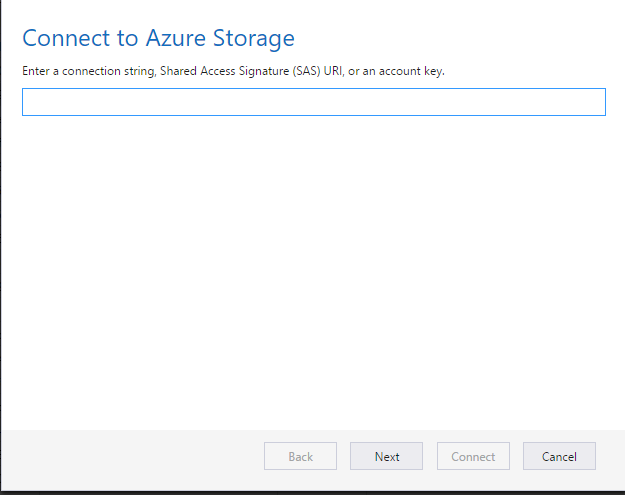
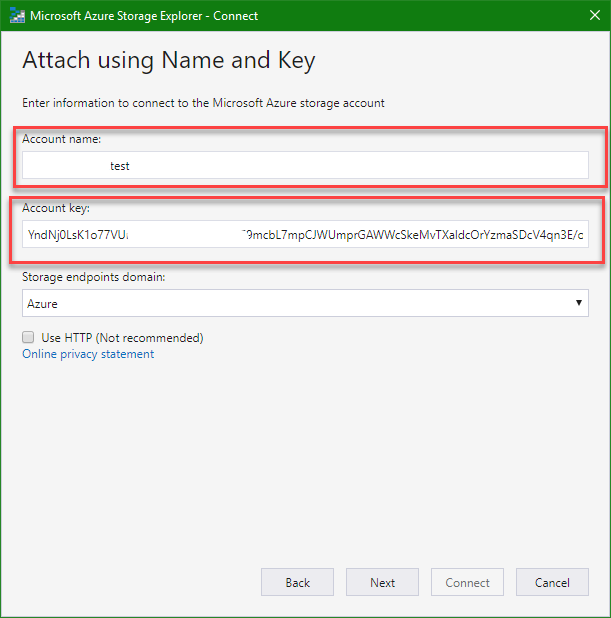
Fix feedback

Changed region(s): [[0.0, 0.0, 1.0, 1.0], [0.9329, 0.4848, 0.964, 0.5152]]

diff --git a/README.md b/README.md
@@ -28,7 +28,7 @@ Contoso O365 Doc Sync Code Sample
 
 [Install PowerPoint Add-in](#install-powerpoint-add-in)
 
-[Run Excel, Word & PowerPoint Add-ins](#run-excel-word-powerpoint-add-ins)
+[Run Excel, Word & PowerPoint Add-ins](#run-excel-word--powerpoint-add-ins)
 
 [How to view Azure SQL data?](#how-to-view-azure-sql-data)
 
@@ -156,7 +156,7 @@ Contoso O365 Doc Sync Code Sample
 
 	 ![](Images/SaveSecretKeys.png)
 
-	 - After saved successfully copy and story the `client secret`.
+	 - After saved successfully copy and store the `client secret`.
 
 	 ![](Images/ObtainSeretKeys.png)
 
@@ -224,7 +224,10 @@ Contoso O365 Doc Sync Code Sample
 
    - Execute the following command to create the self-certificate. 
 
-     `makecert -n "CN=MyCompanyName MyAppName Cert" -ss my -len 1024 -r -pe `
+     `makecert -n "CN=MyCompanyName MyAppName Cert" -ss my -len 1024 -r -pe`
+
+	> **NOTE**: Please update the MyCompanyName and MyAppName. **For example**:  
+	> `makecert -n "CN=ContosoLLC ContosoO365Sync Cert" -ss my -len 1024 -r -pe `
 
    - Go to the personal certificate store under current user. 
 
@@ -312,7 +315,7 @@ Contoso O365 Doc Sync Code Sample
    | CertificateFile     | web site relative path                   | Step 2 in this [section](#configure-the-communication-between-webjob-and-o365-tenant)        | 
    | ida:clientID              | GUID                                  | Step 8 in this [section](#register-the-application-in-azure-active-directory-for-mvc-web-app) |
    | ida:clientSecret          | String                                | Step 9 in this [section](#register-the-application-in-azure-active-directory-for-mvc-web-app) |
-   | ida:PostLogoutRedirectUri | https://<webSiteName>.azurewebsites.net/ | Step 4 in this [section](#create-azure-resources-using-arm-template)                       |
+   | ida:PostLogoutRedirectUri | https://<<webSiteName>>.azurewebsites.net/ | Step 4 in this [section](#create-azure-resources-using-arm-template)                       |
    | ResourceId                | https://graph.microsoft.com           | this is fixed value                      |
   
    
@@ -356,7 +359,7 @@ Contoso O365 Doc Sync Code Sample
 
 6. Select Web Deploy and then click *Next*.
 
-7. Select Debug and click *Next*.
+7. Select Release and unchecked the *Enable Organizational Authentication* then click *Next*.
 
    ![](Images/WebDeployDebug.png)
 
@@ -685,7 +688,6 @@ Contoso O365 Doc Sync Code Sample
 
      - Select the range (only one cell is supported, please do not double click the cell.  Click Esc if double click the cell.)
      - Click the populating cell address button
-     - Select group
      - Select the range (only one cell is supported, please do not double click the cell.  Click Esc if double click the cell.)
      - Click the populating cell address button
      - Save the changes
@@ -698,15 +700,13 @@ Contoso O365 Doc Sync Code Sample
 
    ![](Images/addestinationpoint.png)
 
-9. Select the Excel file hosts the source points and select one source point. 
+9. Select the Excel file hosts the source points. 
 
    ![](Images/fileexplorer.png)
 
+10. Put the cursor in the word then select one source point and then click the Add button.
+
    ![](Images/selectsps.png)
-
-10. Put the cursor in the word before clicking the add button.
-
-   ![](Images/adddp.png)
 
 11. Save the word document and close it. 
 
@@ -743,8 +743,8 @@ Contoso O365 Doc Sync Code Sample
 
    ![](Images/SQLServerOjbectExplorer.png)
 
-6. Select the database and connect it.
-
+6. Click Add SQL Server and the select the database and connect it.
+	
    - The Server name will be automatically filled after selecting the DB.
 
    - Fill the correct DB.
@@ -764,7 +764,6 @@ Contoso O365 Doc Sync Code Sample
    - View the table data by clicking view data.
 
      ![](Images/ViewTableData.png)
-
    
 
 ## How to view data in the storage account? 
@@ -785,27 +784,25 @@ Contoso O365 Doc Sync Code Sample
 
 4. Download the Azure Storage Explorer.
 
-   - Download the Azure Storage Explorer from the following location [http://storageexplorer.com](http://storageexplorer.com)
+   - Download the Azure Storage Explorer from the following location [http://storageexplorer.com](http://storageexplorer.com)
 
-     
-
-5. Use the API key to connect the storage account in Azure Explorer Explorer.
+5. Use a storage account name and key to connect it in Azure Explorer Explorer.
 
    - Connect to Azure Storage.
 
      ![](Images/AzureStorageExplorer.png)
 
-   - Copy the access key from the step 3 above and paste into the textbox below.
+   - Copy the storage account name and access key from the step 3 above and fill them in the form below.
 
      ![](Images/ConnectAzureStorage.png)
 
-   - Fill the storage account name (**For example: **contosoo365docsyncqa)
-
-     ![](Images/FillAccountName.png)
+   - Click Next and then click Connect.
 
 6. Check the queue/table.
 
    - The publish queue & publish table is created under the queues/tables.
+
+		> **NOTE**: The publish queue and table will be created when you publish source point in Excel add-in. So please publish the source point before to check the queue and tabe.
 
       ![](Images/queueandtable.png)
 
@@ -822,7 +819,6 @@ Contoso O365 Doc Sync Code Sample
       If the status value is Error, it means there is some error processing this item(UI shows the error notification.)
 
    ![](Images/publishstatus.png)
-
    
 
 ## How to check WebJob status?
@@ -834,8 +830,6 @@ Contoso O365 Doc Sync Code Sample
 3. Go to the *WebJobs* under the website.
 
    ![](Images/SelectWebJobs.png)
-
-
 
 4. Ensure the WEBJOB status is running.
 
@@ -930,7 +924,7 @@ Contoso O365 Doc Sync Code Sample
 
    - Work with your O365 admin to go to admin consent page in the browser. 
 
-     **For example:** `https://localhost:44394/Admin/Consents`
+     **For example:** `https://localhost:44394/Admin/Consent`
 
    - Use the O365 admin account to login and click admin consent button. 
 
@@ -943,8 +937,6 @@ Contoso O365 Doc Sync Code Sample
      - Select the range (only one cell is supported, please do not double click the cell.  Click Esc if double click the cell.)
      
      - Click the populating cell address button
-     
-     - Select group
      
      - Select the range (only one cell is supported, please do not double click the cell.  Click Esc if double click the cell.)
      
@@ -972,18 +964,13 @@ Contoso O365 Doc Sync Code Sample
 
    - Click add and edit the destination form.
 
-   - Select the Excel file hosts the source points and select one source point just created. 
+   - Select the Excel file hosts the source points. 
 
      ![](Images/fileexplorer.png)
 
+   - Put the cursor in the word then select one source point just created and then click the Add button.
+
      ![](Images/selectsps.png)
-
-   - Put the cursor in the word before clicking the add button.
-
-   - Click Add to add the destination point.
-
-     ![](Images/adddp.png)
-
 
 11. Set ContosoO365DocSyncPowerPoint as StartUp project and press F5
 
